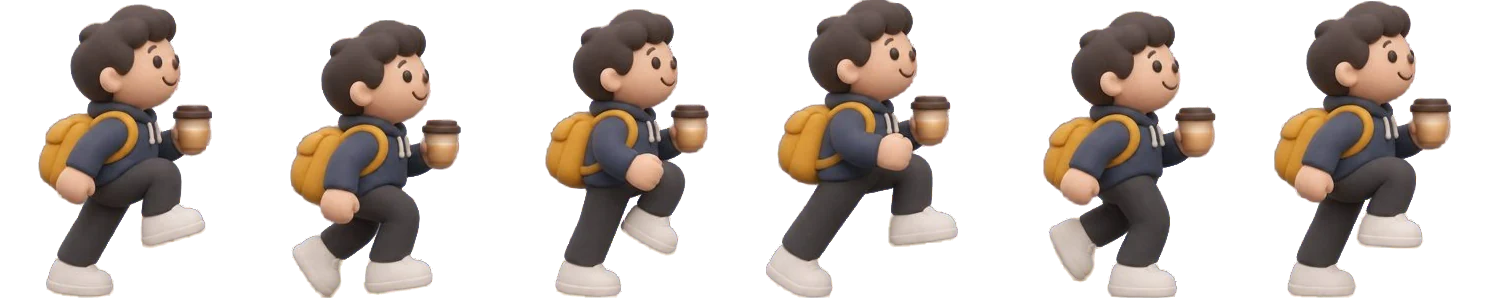
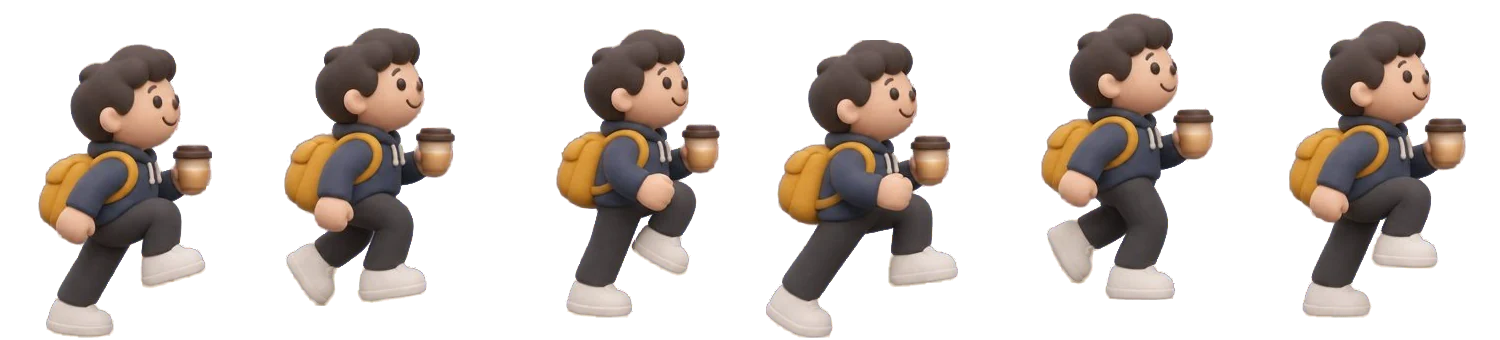
Заставка с лестницей: покадровое движение без скольжения ног, сцена на весь экран, крупное приветствие наверху
Claude-Session: https://claude.ai/code/session_01PvUo6SfsHEJBcoDnbJv4Dh

diff --git a/public/css/app.css b/public/css/app.css
@@ -2463,35 +2463,35 @@ img.ei.ei-art { width: 1.55em; height: 1.55em; vertical-align: -0.42em; margin: 
 .duel-ico .ei-art, .sm-ico .ei-art, .bi-ico .ei-art, .crew-turn .ei-art { width: 26px; height: 26px; margin: 0; vertical-align: middle; }
 .war-kindbtn > span:first-child .ei-art { width: 34px; height: 34px; }
 button.ava-tap { padding: 0; border: 0; background: none; cursor: pointer; font: inherit; color: inherit; }
-/* ===== Заставка: человечек поднимается по бесконечной лестнице. Шаг ступени 64×40, цикл ходьбы — шесть кадров на две ступени ===== */
-.climb { position: fixed; inset: 0; z-index: 1200; overflow: hidden; display: flex; flex-direction: column; align-items: center; color: #fff; text-align: center;
-  padding: calc(18px + env(safe-area-inset-top, 0px)) 20px calc(22px + env(safe-area-inset-bottom, 0px));
-  background: radial-gradient(120% 70% at 78% 8%, #3A4CA8 0%, rgba(58,76,168,0) 60%), linear-gradient(180deg, #222C66 0%, #151B45 58%, #0E1232 100%);
+/* ===== Заставка: человечек поднимается по бесконечной лестнице. Покадрово, как пластилиновый мультик:
+   ступень 66×32, за три кадра (0,42 с) лестница сдвигается на одну ступень, человечек перебирает шесть кадров ===== */
+.climb { position: fixed; inset: 0; z-index: 1200; overflow: hidden; color: #fff; text-align: center; background: linear-gradient(180deg, #2A3A8C 0%, #1D2767 48%, #141B4B 100%);
   transition: transform .6s cubic-bezier(.6,0,.8,.3), opacity .45s .15s; }
 .climb.go { transform: translateY(-104%); opacity: 0; pointer-events: none; }
 .climb-bg { position: absolute; inset: 0; pointer-events: none; }
 .climb-bg i { position: absolute; border-radius: 50%; }
-.climb-bg i:nth-child(1) { width: 150px; height: 150px; right: -44px; top: 7%; background: radial-gradient(circle at 35% 35%, #FFE08A, #F5B400 62%, #D99A00); box-shadow: 0 0 80px rgba(245,180,0,.35); opacity: .95; }
-.climb-bg i:nth-child(2) { width: 240px; height: 90px; left: -70px; top: 21%; background: rgba(255,255,255,.1); filter: blur(2px); animation: climb-cloud 14s ease-in-out infinite alternate; }
-.climb-bg i:nth-child(3) { width: 180px; height: 64px; right: 14%; top: 34%; background: rgba(255,255,255,.07); animation: climb-cloud 18s ease-in-out infinite alternate-reverse; }
-@keyframes climb-cloud { to { transform: translateX(46px); } }
-.climb .logo { position: relative; font-size: 40px; color: #fff; animation: sp-in .5s ease both; }
-.climb-chip { position: relative; display: inline-flex; align-items: center; gap: 7px; margin-top: 8px; padding: 6px 13px; border-radius: 999px; font-size: 12px; font-weight: 800; letter-spacing: .04em; color: #FFD45E; background: rgba(8,12,36,.45); box-shadow: inset 0 0 0 1px rgba(255,212,94,.35); max-width: 90%; white-space: nowrap; overflow: hidden; text-overflow: ellipsis; animation: sp-in .5s .15s ease both; }
-.climb-chip i { width: 0; height: 0; flex: none; border: 5px solid transparent; border-top: 0; border-bottom: 8px solid #FFD45E; animation: lift-up .7s ease-in-out infinite; }
-@keyframes lift-up { 0%, 100% { transform: translateY(2px); opacity: .45; } 50% { transform: translateY(-2px); opacity: 1; } }
-.climb-scene { position: relative; flex: 1 1 0; min-height: 190px; width: 100vw; margin: 4px -20px 0; overflow: hidden; -webkit-mask-image: linear-gradient(90deg, transparent 0, #000 16%, #000 84%, transparent 100%); mask-image: linear-gradient(90deg, transparent 0, #000 16%, #000 84%, transparent 100%); }
-.climb-stairs { position: absolute; left: 50%; bottom: 0; width: 0; height: 100%; animation: climb-roll .6s linear infinite; }
-@keyframes climb-roll { to { transform: translate(-64px, 40px); } }
-.climb-stairs i { position: absolute; left: calc(var(--k) * 64px - 34px); bottom: calc(var(--k) * 40px + 40% - 400px); width: 66px; height: 400px; border-radius: 12px 4px 0 0;
-  background: linear-gradient(180deg, #FFD45E 0 7px, #5568C9 7px 13px, #3D4CA3 13px 46px, #2F3B86 46px 100%); box-shadow: inset 3px 0 0 rgba(255,255,255,.08), inset -4px 0 6px rgba(8,12,40,.35); }
-.climb-guy { position: absolute; left: 50%; bottom: 40%; width: 150px; height: 180px; margin-left: -78px; margin-bottom: -8px; background: url(/art/walk.webp) 0 0 / 600% 100% no-repeat; animation: climb-walk 1.2s steps(6) infinite, climb-bob .6s ease-in-out infinite; filter: drop-shadow(0 8px 6px rgba(4,8,30,.4)); transition: transform .35s cubic-bezier(.3,1.6,.5,1); }
+.climb-bg i:nth-child(1) { width: 120px; height: 120px; right: -34px; top: 31%; background: radial-gradient(circle at 35% 35%, #FFE08A, #F5B400 62%, #D99A00); box-shadow: 0 0 70px rgba(245,180,0,.3); }
+.climb-bg i:nth-child(2) { width: 220px; height: 70px; left: -60px; top: 43%; background: rgba(255,255,255,.08); animation: climb-cloud 14s ease-in-out infinite alternate; }
+.climb-bg i:nth-child(3) { width: 150px; height: 50px; right: 22%; top: 27%; background: rgba(255,255,255,.07); animation: climb-cloud 18s ease-in-out infinite alternate-reverse; }
+@keyframes climb-cloud { to { transform: translateX(40px); } }
+.climb-scene { position: absolute; inset: 0; overflow: hidden; }
+.climb-stairs { position: absolute; left: 50%; bottom: 0; width: 0; height: 100%; animation: climb-roll .42s steps(3) infinite; }
+@keyframes climb-roll { to { transform: translate(-66px, 32px); } }
+.climb-stairs i { position: absolute; left: calc(var(--k) * 66px - 56px); bottom: calc(var(--k) * 32px + 34% - 1400px); width: 67px; height: 1400px; border-radius: 9px 3px 0 0;
+  background: linear-gradient(180deg, #FFD45E 0 5px, #7C8FF0 5px 13px, #4658BC 13px 15px, #3D4CAA 15px, #2F3C8E 180px, #232D70 520px, #1C2460 100%);
+  box-shadow: inset 2px 0 0 rgba(255,255,255,.1), inset -6px 0 8px rgba(10,14,50,.38); }
+.climb-guy { position: absolute; left: 50%; bottom: 34%; width: 150px; height: 204px; margin: 0 0 -4px -75px; background: url(/art/walk.webp) 0 0 / 600% 100% no-repeat; animation: climb-walk .84s steps(6) infinite; filter: drop-shadow(0 7px 5px rgba(6,10,40,.45)); transition: transform .35s cubic-bezier(.3,1.6,.5,1); }
 @keyframes climb-walk { to { background-position-x: 120%; } }
-@keyframes climb-bob { 0%, 100% { translate: 0 -6px; } 70% { translate: 0 6px; } }
 .climb.go .climb-guy { transform: translateY(-34px) scale(1.06); }
-.climb-text { position: relative; width: 100%; max-width: 420px; display: flex; flex-direction: column; align-items: center; padding-top: 6px; }
-.climb-hi { margin: 0; font-size: clamp(19px, 5.6vw, 25px); font-weight: 900; line-height: 1.22; min-height: 2.44em; display: flex; align-items: center; animation: sp-in .5s .3s ease both; }
-.climb-day { margin: 6px 0 0; font-size: 13.5px; font-weight: 700; color: #AEB8D6; animation: sp-in .5s .45s ease both; }
-.climb .splash-go { margin-top: 16px; width: min(100%, 320px); background: linear-gradient(180deg, #FFDB6B, #F5B400) !important; color: #3B2A00 !important; }
-.climb .splash-bar { margin-top: 12px; }
-@media (max-height: 620px) { .climb .logo { font-size: 30px; } .climb-guy { width: 115px; height: 138px; margin-left: -60px; } }
-@media (prefers-reduced-motion: reduce) { .climb-stairs, .climb-guy, .climb-bg i, .climb-chip i { animation: none; } .climb { transition: opacity .25s; } .climb.go { transform: none; } }
+/* Текст — наверху, на чистом небе: там он читается */
+.climb-top { position: absolute; left: 0; right: 0; top: 0; padding: calc(16px + env(safe-area-inset-top, 0px)) 22px 0; display: flex; flex-direction: column; align-items: center; }
+.climb .logo { font-size: 30px; color: #fff; }
+.climb-chip { display: inline-flex; align-items: center; gap: 7px; margin-top: 8px; padding: 6px 13px; border-radius: 999px; font-size: 12.5px; font-weight: 800; letter-spacing: .03em; color: #FFD45E; background: rgba(8,12,40,.5); box-shadow: inset 0 0 0 1px rgba(255,212,94,.4); max-width: 100%; white-space: nowrap; overflow: hidden; text-overflow: ellipsis; }
+.climb-chip i { width: 0; height: 0; flex: none; border: 5px solid transparent; border-top: 0; border-bottom: 8px solid #FFD45E; }
+.climb-hi { margin: 18px 0 0; max-width: 460px; font-size: clamp(25px, 7.4vw, 34px); font-weight: 900; line-height: 1.16; letter-spacing: -.01em; color: #fff; text-shadow: 0 2px 0 rgba(10,14,50,.55), 0 0 18px rgba(10,14,50,.5); text-wrap: balance; }
+.climb-day { margin: 10px 0 0; font-size: 15px; font-weight: 800; color: #C9D2F5; }
+.climb-act { position: absolute; left: 0; right: 0; bottom: 0; padding: 0 22px calc(22px + env(safe-area-inset-bottom, 0px)); display: flex; flex-direction: column; align-items: center; }
+.climb .splash-go { margin: 0; width: min(100%, 340px); min-height: 56px; font-size: 18px; animation: sp-in .35s .15s ease both; background: linear-gradient(180deg, #FFDB6B, #F5B400) !important; color: #3B2A00 !important; box-shadow: 0 5px 0 #B98400, 0 12px 22px rgba(6,10,40,.45) !important; }
+.climb .splash-bar { margin-top: 14px; width: 150px; background: rgba(255,255,255,.2); }
+@media (max-height: 640px) { .climb-hi { font-size: 23px; margin-top: 10px; } .climb .logo { font-size: 24px; } .climb-day { margin-top: 6px; } }
+@media (prefers-reduced-motion: reduce) { .climb-stairs, .climb-guy, .climb-bg i { animation: none; } .climb { transition: opacity .25s; } .climb.go { transform: none; } }

diff --git a/public/js/app.js b/public/js/app.js
@@ -7592,16 +7592,17 @@ async function splash() {
   const mine = (S.me.gangs || []).find((x) => x.id === S.activeGang) || (S.me.gangs || [])[0];
   const where = mine && mine.floor ? `${mine.floor} этаж · ${mine.name}` : names[Math.floor(Math.random() * names.length)];
   // Заставка лежит поверх приложения: человечек бесконечно поднимается по лестнице, пока под ней рисуется экран.
-  // Ступени едут вниз-влево ровно на одну ступень за полцикла шага, человечек стоит на месте и перебирает шесть кадров
+  // Как в пластилиновом мультике, всё движется покадрово: за три кадра ступени сдвигаются ровно на одну, и опорная нога с них не съезжает
   const el = document.createElement('div');
   el.className = 'climb';
-  const steps = Array.from({ length: 16 }, (_, k) => `<i style="--k:${k - 6}"></i>`).join('');
+  const steps = Array.from({ length: 18 }, (_, k) => `<i style="--k:${k - 8}"></i>`).join('');
+  // Сцена — на весь экран: лестница уходит под нижний край, приветствие крупно наверху, кнопка внизу поверх ступеней
   el.innerHTML = `<div class="climb-bg"><i></i><i></i><i></i></div>
-    <div class="logo">Этаж<span>.</span></div>
-    <div class="climb-chip"><i></i>${esc(where)}</div>
     <div class="climb-scene"><div class="climb-stairs">${steps}</div><i class="climb-guy"></i></div>
-    <div class="climb-text"><p class="climb-hi">${esc(g.text)}</p><p class="climb-day">${esc(g.day)}</p>
-      <button class="btn splash-go" data-act="splash-skip">${esc(g.go)} →</button><div class="splash-bar"><i style="animation-duration:${SPLASH_MS}ms"></i></div></div>`;
+    <div class="climb-top"><div class="logo">Этаж<span>.</span></div>
+      <div class="climb-chip"><i></i>${esc(where)}</div>
+      <p class="climb-hi">${esc(g.text)}</p><p class="climb-day">${esc(g.day)}</p></div>
+    <div class="climb-act"><button class="btn splash-go" data-act="splash-skip">${esc(g.go)} →</button><div class="splash-bar"><i style="animation-duration:${SPLASH_MS}ms"></i></div></div>`;
   document.body.appendChild(el);
   root.innerHTML = '';
   await new Promise((res) => { S.splashDone = res; setTimeout(res, SPLASH_MS); });

diff --git a/public/sw.js b/public/sw.js
@@ -1,5 +1,5 @@
 // Service worker: кэш оболочки приложения и показ пушей.
-const CACHE = 'etazh-v141';
+const CACHE = 'etazh-v142';
 const SHELL = ['/', '/index.html', '/css/app.css', '/js/app.js', '/js/building.js', '/js/crest.js', '/js/guide.js', '/js/ships.js', '/js/seafx.js', '/js/duelart.js', '/js/practice.js', '/sounds/battle.mp3', '/sounds/lose.mp3', '/sounds/win.mp3', '/sounds/rally.mp3', '/sounds/horn.mp3', '/sounds/miss1.mp3', '/sounds/miss2.mp3', '/sounds/hit1.mp3', '/sounds/hit2.mp3', '/sounds/sunk1.mp3', '/sounds/resign.mp3', '/sounds/emo_lol.mp3', '/sounds/emo_angry.mp3', '/sounds/emo_bored.mp3', '/sounds/emo_smart.mp3', '/sounds/emo_oops.mp3', '/sounds/emo_clap.mp3', '/sounds/emo_mercy.mp3', '/sounds/emo_easy.mp3', '/sounds/emo_sink.mp3', '/sounds/emo_miss.mp3', '/sounds/emo_gull.mp3', '/sounds/emo_boom.mp3', '/sounds/emo_hmm.mp3', '/sounds/emo_bye.mp3', '/sounds/emo_rage.mp3', '/sounds/emo_wait.mp3', '/js/theme.js', '/art/rps.webp', '/art/dice.webp', '/art/ttt.webp', '/art/ship.webp', '/art/bolt.webp', '/art/trophy.webp', '/art/coffee.webp', '/art/lunch.webp', '/art/pin.webp', '/art/ships/s1h.webp', '/art/ships/s1hw.webp', '/art/ships/s1v.webp', '/art/ships/s1vw.webp', '/art/ships/s2h.webp', '/art/ships/s2hw.webp', '/art/ships/s2v.webp', '/art/ships/s2vw.webp', '/art/ships/s3h.webp', '/art/ships/s3hw.webp', '/art/ships/s3v.webp', '/art/ships/s3vw.webp', '/art/ships/s4h.webp', '/art/ships/s4hw.webp', '/art/ships/s4v.webp', '/art/ships/s4vw.webp', '/art/shield.webp', '/art/crest/em.webp', '/art/crest/tops.webp', '/art/gift.webp', '/art/popper.webp', '/art/stopwatch.webp', '/art/podium.webp', '/art/win.webp', '/art/lose.webp', '/art/draw.webp', '/art/clink.webp', '/art/tasks.webp', '/art/cup.webp', '/art/medal_common.webp', '/art/medal_rare.webp', '/art/medal_legendary.webp', '/art/medal_locked.webp', '/art/medal_secret.webp', '/art/buoy.webp', '/art/sea_buoy.webp', '/art/gull.webp', '/art/walk.webp', '/art/emo.webp', '/art/hourglass.webp', '/art/beans.webp', '/art/dove.webp', '/art/flag.webp', '/art/friends.webp', '/art/megaphone.webp', '/art/quiz.webp', '/art/shake.webp', '/art/bg_office.webp', '/art/bg_meeting.webp', '/art/bg_home.webp', '/art/bg_street.webp', '/art/bg_cafe.webp', '/fonts/onest.woff', '/fonts/unbounded.woff', '/manifest.webmanifest', '/icons/icon-192.png'];
 
 self.addEventListener('install', (e) => {
